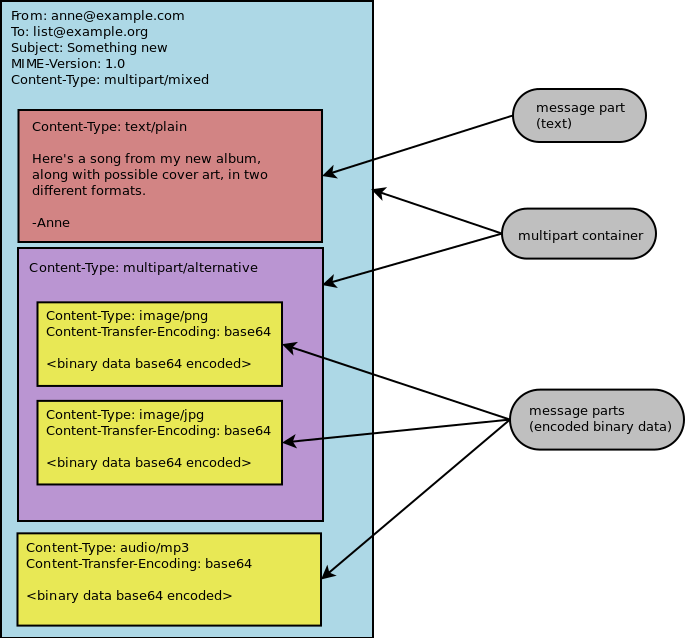
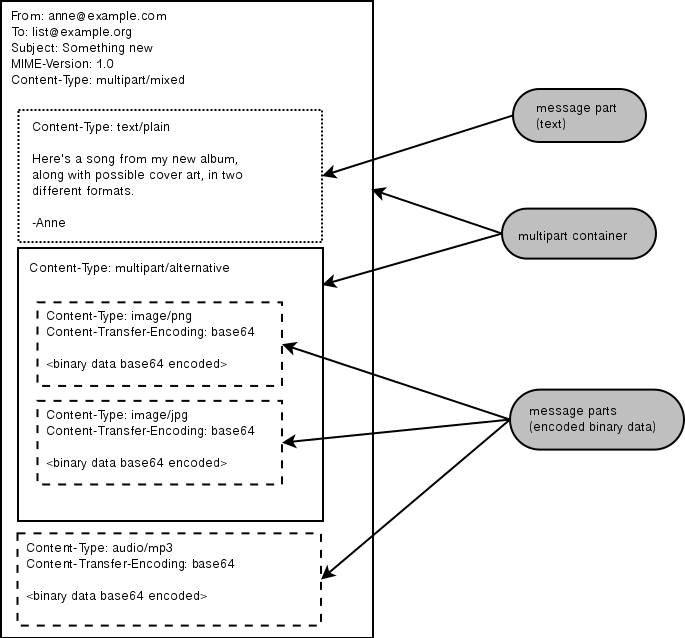
Converted two images to B&W, but they aren't coming out nicely so will ask Barry to redo; changed "Lessons" to "Lessons Learned"; added space before table; moved tribute to Tokio Kikuchi to its own section.
git-svn-id: http://www.aosabook.org/svn/volume2@902 dd5aa6cc-de63-413d-92ad-03a14aac4e6a

diff --git a/tex/en/mailman.tex b/tex/en/mailman.tex
@@ -90,10 +90,10 @@ defined in the various MIME standards.  A container \emph{message
   part} can encode an image, some audio, or just about any type of
 binary or text data.  In mail reader applications, these are known as
 \emph{attachments}.  \aosafigref{fig.mailman.mime} shows the structure
-of a complex MIME message.  The blue boxes are the container parts,
-the yellow boxes are
+of a complex MIME message.  The boxes with solid borders are the container parts,
+the boxes with dashed borders are
 Base64\footnote{\url{http://en.wikipedia.org/wiki/Base64}} encoded
-binary data, and the red box is a plain text message.
+binary data, and the box with a dotted border is a plain text message.
 
 \aosafigure{../images/mailman/mime.png}{A MIME \code{multipart/mixed} Message Containing Text, Images, and an Audio File}{fig.mailman.mime}
 
@@ -840,7 +840,7 @@ file system, and this would override more generic defaults.
 
 \end{aosasect1}
 
-\begin{aosasect1}{Lessons}
+\begin{aosasect1}{Lessons Learned}
 
 While this article has provided an overview of Mailman 3's
 architecture and insight into how that architecture has evolved over
@@ -911,6 +911,9 @@ GNU Mailman is a vibrant project with a healthy user base, and lots of
 opportunities for contributions.  Here are some resources you can use
 if you think you'd like to help us out, which I hope you do!
 
+%% FIXME: Maybe we should make a table environment with space before
+%% and after? --ARB
+\hspace{20pt}
 \begin{tabular}{ll}
 Primary web site        & \code{http://www.list.org} \\
 Project wiki            & \code{http://wiki.list.org} \\
@@ -919,13 +922,17 @@ Users mailing list      & \code{mailman-users@python.org} \\
 Freenode IRC channel    & \code{\#mailman}
 \end{tabular}
 
-A final note; while this article was being written, we learned with
+\begin{aosasect3}{A Final Note}
+
+While this article was being written, we learned with
 sadness of the passing of Tokio
 Kikuchi\footnote{\url{http://wiki.list.org/display/COM/TokioKikuchi}},
 a Japanese professor who contributed heavily to Mailman, and was
 especially knowledgeable about internationalization and the
 idiosyncrasies of Japanese mail user agents.  He will be greatly
 missed.
+
+\end{aosasect3}
 
 \end{aosasect1}
 
